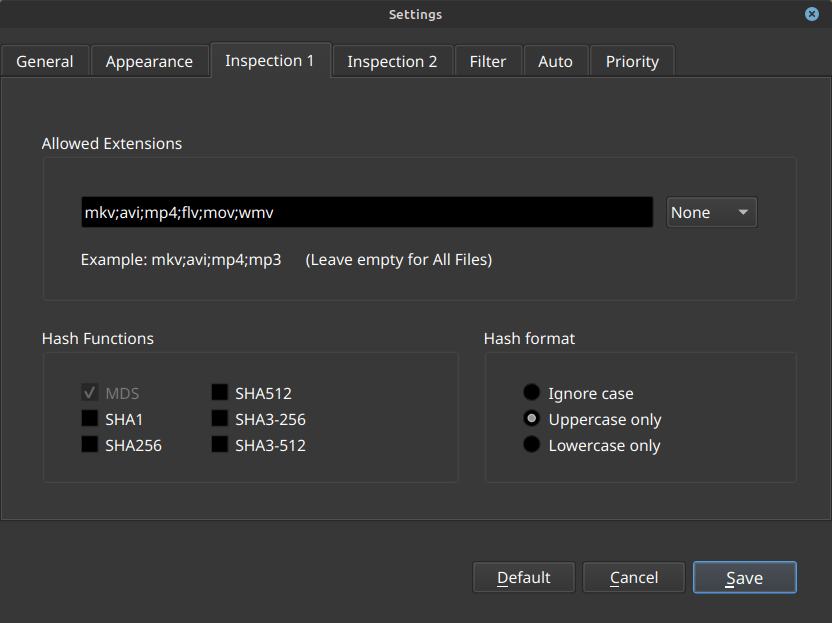
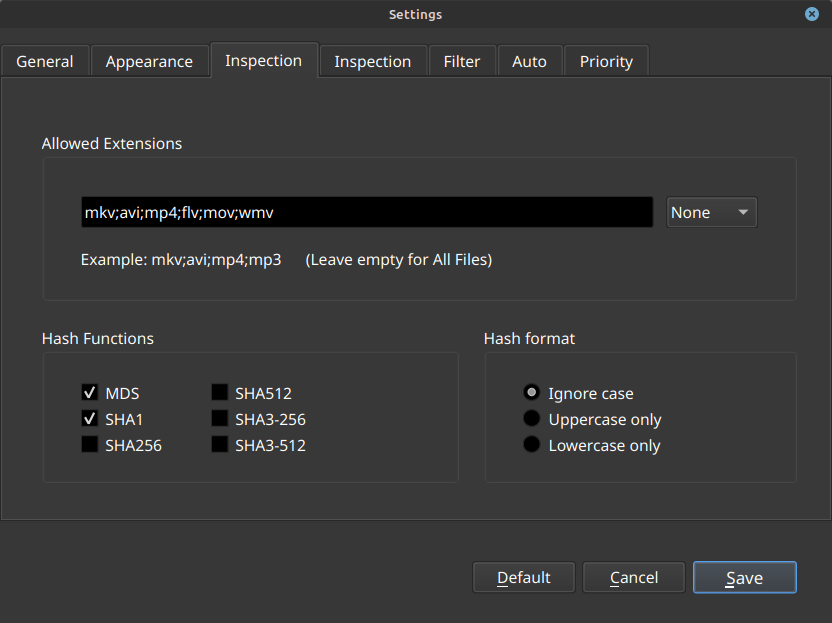
v2.12

diff --git a/Sourcecode/mainwindow.cpp b/Sourcecode/mainwindow.cpp
@@ -33,9 +33,6 @@ MainWindow::MainWindow( QWidget *parent )
     ui->setupUi( this );
 
 
-    // Set an icon for Cinnamon
-    setWindowIcon( QIcon(":/images/HashInspector-Logo.png") );
-
     // Insert logo from the resource
     QPixmap picLogo( ":/images/HashInspector-Logo.png" );
     ui->label_mainLogo->setPixmap( picLogo.scaled(45,45,Qt::KeepAspectRatio, Qt::SmoothTransformation) );
@@ -101,7 +98,7 @@ MainWindow::MainWindow( QWidget *parent )
     ui->pb_Abort->setVisible( false );
 
     // A flag indicates that the scaling has changed since the last launch: reset the window
-    if ( CMI.bResetWposSize == true )  resetMainWindowPosSize();
+    if ( CMI.bResetWposSize == true )  __resetMainWindowPosSize();
 
 
     //////////////////////////////
@@ -177,7 +174,7 @@ void MainWindow::showEvent( QShowEvent *event ) {
 
 
 // Resets the position and size of the main window to their default values
-void MainWindow::resetMainWindowPosSize( void )  {
+void MainWindow::__resetMainWindowPosSize( void )  {
 
     // Determine the primary display
     QScreen *xPrimaryScreen = QGuiApplication::primaryScreen();
@@ -190,6 +187,7 @@ void MainWindow::resetMainWindowPosSize( void )  {
 
     // Move window
     this->move( rectScreenGeometry.left() + 100, rectScreenGeometry.top() + 100 );
+
 }
 
 
@@ -207,7 +205,7 @@ void MainWindow::__setGeomentry( void )  {
 
     // Set window size or default
     if ( !geo.isEmpty() )  restoreGeometry( geo );       // Restore saved dimensions and position
-    else  resetMainWindowPosSize();                     // Resets the position and size of the main window to their default values
+    else  __resetMainWindowPosSize();                   // Resets the position and size of the main window to their default values
 
     // IMPORTANT: After calling setWindowFlags, we must call show()
     // to make the window visible again
@@ -219,7 +217,7 @@ void MainWindow::__setGeomentry( void )  {
 
 
 // Set White Mode or Dark Mode
-void MainWindow::__setTheme( int iTheme ) {
+void MainWindow::__setTheme( const int iTheme ) {
 
     if ( iTheme == RADIOBUTTON_1 )  {
 
@@ -505,6 +503,8 @@ void MainWindow::__removeGreen( void )  {
     for( int i = ui->listWidget->count() - 1; i >= 0; --i )  {
 
             QListWidgetItem *xItem = ui->listWidget->item(i);
+            if ( !xItem ) continue;     // Security check
+
             if ( xItem->foreground().color() == LW_HASHFOUND_COLOR_DARK || xItem->foreground().color() == LW_HASHFOUND_COLOR_WHITE)  {
 
                 delete ui->listWidget->takeItem( i );
@@ -522,6 +522,8 @@ void MainWindow::__removeRed( void )  {
     for( int i = ui->listWidget->count() - 1; i >= 0; --i )  {
 
             QListWidgetItem *xItem = ui->listWidget->item(i);
+            if ( !xItem ) continue;     // Security check
+
             if ( xItem->foreground().color() == Qt::red)  delete ui->listWidget->takeItem( i );
 
     }
@@ -534,8 +536,9 @@ void MainWindow::__removeRed( void )  {
 // ------------------------------------------------ Specifically for Status 1 ------------------------------------------------
 
 
+
 // Trim the text on the left until it fits
-QString MainWindow::__clipTextLeft( const QString &sFullText, int iMaxWidth )  {
+QString MainWindow::__clipTextLeft( const QString &sFullText, const int iMaxWidth )  {
 
     // Remove HTML for measurement
     QTextDocument doc;
@@ -662,15 +665,15 @@ void MainWindow::__onHashResultReady( const bool bSuccess,
                                     )
 {   ui->label_HIstatus2->clear();
 
-    if ( xCurrentItem)  {
+    if ( xCurrentItem )  {
 
         QString sFileName = xCurrentItem->text();
 
         // Set the color
-        xCurrentItem->setForeground( bSuccess ? __getHashFountColor() : Qt::red );
+        xCurrentItem->setForeground( bSuccess ? __getHashFoundColor() : Qt::red );
 
         // If successful, prefix with [OK]; if an error occurs, display the path in the tooltip
-        if ( bSuccess )  xCurrentItem->setText( "[OK] " + xCurrentItem->text() );
+        if ( bSuccess )  {  if ( CMI.bShowIcons == true )  xCurrentItem->setIcon( QIcon(":/images/Checkmark.png") );  }
         else  {  // Optionally, include the path or the path and filename in the tooltip
                  switch( CMI.iOnHashNotFound )
                         {
@@ -702,7 +705,7 @@ void MainWindow::__onHashResultReady( const bool bSuccess,
                 }
 
                 // Set icon
-                if ( CMI.bShowIcons == true )  xCurrentItem->setIcon( QIcon(":/images/RedArrow.png") );
+                if ( CMI.bShowIcons == true )  xCurrentItem->setIcon( QIcon(":/images/RedX.png") );
 
               }
 
@@ -776,15 +779,15 @@ void MainWindow::__onFinished( QThread *thread, const int iSuccessCount, const i
     // Signal-Connections
     connect( xButtonG, &QPushButton::clicked, [this, xButtonG]()  {
 
-      __removeGreen();
-        xButtonG->setEnabled( false );
+          __removeGreen();
+            xButtonG->setEnabled( false );
 
     });
 
     connect( xButtonR, &QPushButton::clicked, [this, xButtonR]()  {
 
-      __removeRed();
-        xButtonR->setEnabled( false );
+          __removeRed();
+            xButtonR->setEnabled( false );
 
     });
 
@@ -829,11 +832,11 @@ void MainWindow::doTheWork( const QString sPath )  {
     // We connect the finished signal of the THREAD to a slot or lambda
     connect( worker, &HashWorker::finished, this, [this, thread, worker](const int iSuccessCount, const int iErrorCount)  {
 
-        // Disconnect ALL connections from the Abort button so that, on the next startup,
-        // there are no "ghost connections" to old workers.
-        ui->pb_Abort->disconnect( worker );
+            // Disconnect ALL connections from the Abort button so that, on the next startup,
+            // there are no "ghost connections" to old workers.
+            ui->pb_Abort->disconnect( worker );
 
-      __onFinished( thread, iSuccessCount, iErrorCount );
+          __onFinished( thread, iSuccessCount, iErrorCount );
 
     });
 
@@ -991,7 +994,7 @@ void MainWindow::on_pb_Clear_clicked()
 }
 
 
-
+// Export the contents of the ListView to a text file
 void MainWindow::on_pb_Export_clicked()
 {
     QString sSelectedFile = "";
@@ -1036,11 +1039,11 @@ void MainWindow::on_pb_Export_clicked()
         int         iWrittenLN = 0;
 
         QLocale     usLocale( QLocale::English, QLocale::UnitedStates );
-        QString     xTimestamp = usLocale.toString( QDateTime::currentDateTime(), "MMMM dd, yyyy - HH:mm:ss" );
+        QString     sTimestamp = usLocale.toString( QDateTime::currentDateTime(), "MMMM dd, yyyy - HH:mm:ss" );
 
         // Write the header
         out << "Program: HashInspector https://github.com/complexKA/HashInspector\n";
-        out << "Date/Time: " << xTimestamp << "\n";
+        out << "Date/Time: " << sTimestamp << "\n";
         out << "------------------------------------------------\n\n";
 
         // Iterate through all items in the ListWidget

diff --git a/Sourcecode/worker.h b/Sourcecode/worker.h
@@ -10,12 +10,11 @@
 #include <qregularexpression.h>
 
 
-
 class HashWorker : public QObject {
     Q_OBJECT
 public:
     explicit HashWorker( const QString &path, const QString &sFilter )
-        : m_path(path), m_filter(sFilter), bAbortSignal(false) {}
+        : m_path( path ), m_filter( sFilter ), bAbortSignal(false) {}
 
     // Cancel function
     void __abort() { bAbortSignal = true; }
@@ -37,6 +36,7 @@ public slots:
         QString       sLastDirectory;
         QElapsedTimer timerDuration;    timerDuration.start();
         QElapsedTimer lastUpdateTimer;  lastUpdateTimer.start();
+        QLocale       usLocale( QLocale::English, QLocale::UnitedStates );
 
         for( const QString &sExt : m_filter.split(';', Qt::SkipEmptyParts) )  {
 
@@ -46,7 +46,7 @@ public slots:
 
 
         ///////////////////////////
-        /// Prepare the filter
+        /// Prepare filter 1
         QStringList lFilterList = CMI.sExcludePat.split( '\n', Qt::SkipEmptyParts );
 
         for( QString &sLine : lFilterList )  {
@@ -98,14 +98,18 @@ public slots:
 
         emit messageLogged( QString("Starting inspection of:  %1").arg(m_path), __getSysTXTcolor(), true );
 
-        if ( CMI.sAllowedExts.isEmpty() )  emit messageLogged( "Filter 1: Inactive (All files are allowed through)", __getSysTXTcolor(), true );
-        else  emit messageLogged( QString("Filter 1: Active, allowed extensions are %1").arg(CMI.sAllowedExts), __getSysTXTcolor(), true );
+        if ( CMI.sExcludePat.isEmpty() )  emit messageLogged( "Filter 1: Inactive, all files are scanned", __getSysTXTcolor(), true );
+        else  emit messageLogged("Filter 1: Active, some directories and files are not scanned", __getSysTXTcolor(), true );
 
-        if ( CMI.bFilter2active == true )  emit messageLogged( "Filter 2: Active", __getSysTXTcolor(), true );
+        if ( CMI.bFilter2active == true )  emit messageLogged( "Filter 2: File length and the characters that make up the filename are analyzed.", __getSysTXTcolor(), true );
         else  emit messageLogged( "Filter 2: Deactivated", __getSysTXTcolor(), true );
 
         emit messageLogged( QString("Hash Functions:  %1  (%2)").arg(sHashAlgos).arg(sHashFormat), __getSysTXTcolor(), true );
         emit messageLogged( "-----------------------------------", __getSysTXTcolor() );
+
+        if ( CMI.bShowTimes == true )  {  QString sTimestamp = usLocale.toString( QDateTime::currentDateTime(), "MMMM dd, yyyy - HH:mm:ss" );
+                                          emit messageLogged( "Started at: " + sTimestamp, __getSysTXTcolor() );
+                                       }
 
 
         ////////////////////////////////////////////////////////////////////////////////////////////////////////////////////////////////////////////
@@ -308,6 +312,11 @@ public slots:
         }
 
         if ( iSuccessCount + iErrorCount == 0 && !bAbortSignal )  emit messageLogged( "Sorry, no matches", Qt::red );
+
+        if ( CMI.bShowTimes == true )  {  QString sTimestamp = usLocale.toString( QDateTime::currentDateTime(), "MMMM dd, yyyy - HH:mm:ss" );
+                                          emit messageLogged( "Finished at: " + sTimestamp, __getSysTXTcolor() );
+                                       }
+
         emit messageLogged( "-------------------------", __getSysTXTcolor() );
         emit messageLogged( QString("Inspection runtime: %1").arg(sFormattedTime), __getSysTXTcolor() );
         emit messageLogged( QString("Hash found: %1, not found: %2, skippend: %3").arg(iSuccessCount).arg(iErrorCount).arg(iSkippedCount), __getSysTXTcolor() );
@@ -374,7 +383,7 @@ private:
 
             return true;
 
-    }   // __filter
+    }   // __filter1
 
 
     // Filter 2: Checks whether a filename can contain a hash at all

diff --git a/Sourcecode/appsettings.cpp b/Sourcecode/appsettings.cpp
@@ -114,6 +114,7 @@ AppSettings::AppSettings( QWidget *parent )
     ui->cb_IncludeSubf->setChecked(       CMI.bIncludeSubf     );
     ui->cb_ShowIcons->setChecked(         CMI.bShowIcons       );
     ui->cb_ShowSkipped->setChecked(       CMI.bShowSkipped     );
+    ui->cb_ShowTimes->setChecked(         CMI.bShowTimes       );
 
     // Filter section
     ui->pte_ExcludePat->setPlainText(     CMI.sExcludePat      );
@@ -147,8 +148,8 @@ AppSettings::~AppSettings()
 
 
 // Features to restore the last tab when reopening the settings
-void AppSettings::setInitialTab( int iTab ) {  ui->tabWidget->setCurrentIndex( iTab );  }
-int AppSettings::getLastTab()               {  return ui->tabWidget->currentIndex();    }
+void AppSettings::setInitialTab( const int iTab ) {  ui->tabWidget->setCurrentIndex( iTab );  }
+int AppSettings::getLastTab()                     {  return ui->tabWidget->currentIndex();    }
 
 
 
@@ -216,6 +217,7 @@ void AppSettings::on_pb_Save_clicked()
     CMI.bIncludeSubf     = ui->cb_IncludeSubf->isChecked();
     CMI.bShowIcons       = ui->cb_ShowIcons->isChecked();
     CMI.bShowSkipped     = ui->cb_ShowSkipped->isChecked();
+    CMI.bShowTimes       = ui->cb_ShowTimes->isChecked();
 
     // Filter section
     CMI.sExcludePat      = ui->pte_ExcludePat->toPlainText();
@@ -273,7 +275,8 @@ void AppSettings::on_pb_Default_clicked()
     ui->cb_ShowScanPath->setChecked( false );
     ui->cb_IncludeSubf->setChecked( true );
     ui->cb_ShowIcons->setChecked( true );
-    ui->cb_ShowScanPath->setChecked( false );
+    ui->cb_ShowSkipped->setChecked( false );
+    ui->cb_ShowTimes->setChecked( false );
 
     // Filter section
     ui->pte_ExcludePat->setPlainText( FILTER_DEFAULTPAT );
@@ -297,7 +300,7 @@ void AppSettings::on_pb_Default_clicked()
 
 
 // The user has selected an extension preset in the tab "Inspection 1"
-void AppSettings::onExtPresetSelected( int iIndex )  {
+void AppSettings::onExtPresetSelected( const int iIndex )  {
 
     QString sAllowedExts;
 

diff --git a/Sourcecode/configmanager.h b/Sourcecode/configmanager.h
@@ -61,6 +61,7 @@ public:
     bool    bIncludeSubf     = true;
     bool    bShowIcons       = true;
     bool    bShowSkipped     = false;
+    bool    bShowTimes       = false;
 
     QString sExcludePat;                            // Filter section
     bool    bFilter2active   = true;
@@ -162,6 +163,7 @@ public:
             bIncludeSubf     = s.value( "IncludeSubf",     true          ).toBool();
             bShowIcons       = s.value( "ShowIcons",       true          ).toBool();
             bShowSkipped     = s.value( "ShowSkipped",     false         ).toBool();
+            bShowTimes       = s.value( "ShowTimes",       false         ).toBool();
 
         s.endGroup();
 
@@ -190,8 +192,8 @@ public:
 
         s.endGroup();
 
-        // Sonstiges
-        dScaleAtLoad = dUIscalingFactor;        // ScalingFactor zum Start merken
+        // Miscellaneous
+        dScaleAtLoad = dUIscalingFactor;        // Remember the scaling factor at the start
 
     }
 
@@ -286,6 +288,7 @@ public:
             s.setValue( "IncludeSubf",     bIncludeSubf     );        // Checkbox Include Subfolders
             s.setValue( "ShowIcons",       bShowIcons       );        // Checkbox Show icons
             s.setValue( "ShowSkipped",     bShowSkipped     );        // Checkbox Show skipped files
+            s.setValue( "ShowTimes",       bShowTimes       );        // Checkbox Show start and end times
 
         s.endGroup();
 

diff --git a/Sourcecode/mainwindow.h b/Sourcecode/mainwindow.h
@@ -26,8 +26,6 @@ public:
     MainWindow( QWidget *parent = nullptr );
     ~MainWindow();
 
-    void resetMainWindowPosSize();
-
 protected:
     void contextMenuEvent( QContextMenuEvent *xEvent ) override {
         // Right-clicking on the toolbar allows you to disable the tools.
@@ -57,15 +55,16 @@ private:
     int              iLastSettingsTab = 0;
     QListWidgetItem *xCurrentItem     = nullptr;
 
+    void    __resetMainWindowPosSize();
     void    __setGeomentry();
-    void    __setTheme( int );
+    void    __setTheme( const int );
     void    __setCurrentPriority();
     void    __setLWandEntryStyle();
     void    __copyTooltipToClipboard( QListWidgetItem * );
     void    __removeGreen();
     void    __removeRed();
 
-    QString __clipTextLeft( const QString &, int );
+    QString __clipTextLeft( const QString &, const int );
     void    __updateLabelDisplay();
     void    resizeEvent( QResizeEvent * ) override;
     void    setHIstatus1Text( const QString &);

diff --git a/Sourcecode/about.cpp b/Sourcecode/about.cpp
@@ -49,6 +49,9 @@ About::~About()
 }
 
 
+// -------------------------------------------- Buttons --------------------------------------------------------
+
+
 void About::on_pb_aboutQt_clicked()
 {
     QMessageBox::aboutQt( this, "Über Qt" );

diff --git a/Sourcecode/appsettings.h b/Sourcecode/appsettings.h
@@ -37,7 +37,7 @@ private:
     QButtonGroup *pHashFormatRBgrp;
     QButtonGroup *pOnHNFRBgrp;
 
-    void onExtPresetSelected( int );
+    void onExtPresetSelected( const int );
 
 };
 

diff --git a/Sourcecode/totalGlobal.cpp b/Sourcecode/totalGlobal.cpp
@@ -39,7 +39,7 @@ QColor __getPreviewColor()  {
 }
 
 // Helper function: Set the text color for "Hash found" for the current theme
-QColor __getHashFountColor()  {
+QColor __getHashFoundColor()  {
 
     if ( CMI.iTheme == RADIOBUTTON_1 )  return LW_HASHFOUND_COLOR_DARK;
     else  return LW_HASHFOUND_COLOR_WHITE;

diff --git a/Sourcecode/totalGlobal.h b/Sourcecode/totalGlobal.h
@@ -65,7 +65,7 @@ extern QString __getSettingsPath();
 
 extern QColor __getSysTXTcolor();
 extern QColor __getPreviewColor();
-extern QColor __getHashFountColor();
+extern QColor __getHashFoundColor();
 extern QColor __getDCbackgroundColor();
 
 